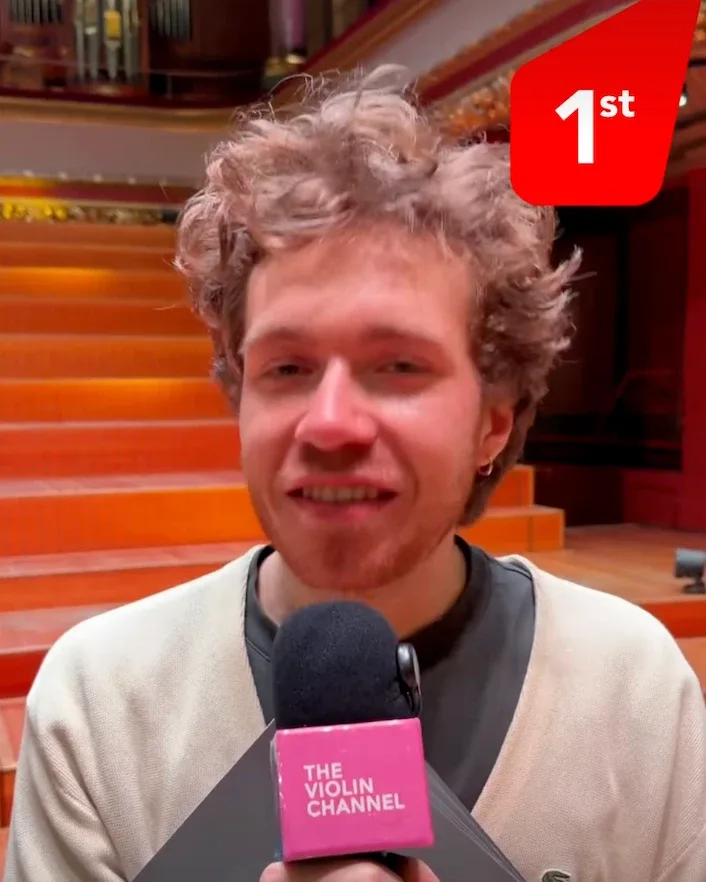
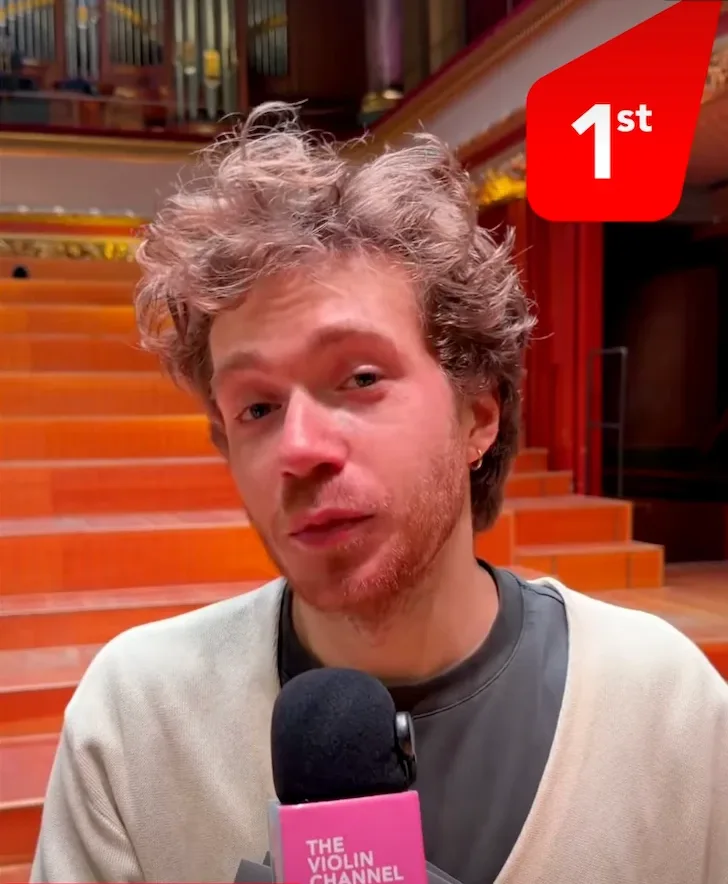
News-Karussell: neues Foto für die Instagram-Karte von Mats Thiersch
Claude-Session: https://claude.ai/code/session_01BXHjn5stXKTkgrGWD7nkhn

diff --git a/news-carousel.js b/news-carousel.js
@@ -27,7 +27,7 @@
 
   // Ersatzbilder (Mats: Original ohne Play-Button; Sanderling: ausgewähltes Porträt), Schlüssel = Bilddatei der News
   var IMAGE_OVERRIDES = {
-    "news-data/img/20261117-150347-0ade13.jpg": { image: "images/news-overrides/20261117-150347-0ade13.jpg", webp: "images/news-overrides/20261117-150347-0ade13.webp" },
+    "news-data/img/20261117-150347-0ade13.jpg": { image: "images/news-overrides/20261117-150347-0ade13.jpg?v=2", webp: "images/news-overrides/20261117-150347-0ade13.webp?v=2" },
     "news-data/img/20261117-144537-dd286f.jpg": { image: "images/sanderling-1092.jpg", webp: "images/sanderling-1092.webp" },
     "news-data/img/20261117-230946-b4c2b5.jpg": { image: "images/sanderling-1092.jpg", webp: "images/sanderling-1092.webp" }
   };

diff --git a/gerald-karni.html b/gerald-karni.html
@@ -747,7 +747,7 @@
     </footer>
 
     <!-- NEWS-KARUSSELL: eigene Liste (news-data/news.json), sonst WordPress -->
-    <script src="news-carousel.js?v=14" defer></script>
+    <script src="news-carousel.js?v=15" defer></script>
     <script src="news-button.js?v=1" defer></script>
 
     <!-- HEADER: BEIM RUNTERSCROLLEN AUSBLENDEN, BEIM HOCHSCROLLEN EINBLENDEN -->

diff --git a/jose-luis-gutierrez.html b/jose-luis-gutierrez.html
@@ -780,7 +780,7 @@
     </footer>
 
     <!-- NEWS-KARUSSELL: eigene Liste (news-data/news.json), sonst WordPress -->
-    <script src="news-carousel.js?v=14" defer></script>
+    <script src="news-carousel.js?v=15" defer></script>
     <script src="news-button.js?v=1" defer></script>
 
     <!-- HEADER: BEIM RUNTERSCROLLEN AUSBLENDEN, BEIM HOCHSCROLLEN EINBLENDEN -->

diff --git a/mats-thiersch.html b/mats-thiersch.html
@@ -740,7 +740,7 @@
     </footer>
 
     <!-- NEWS-KARUSSELL: eigene Liste (news-data/news.json), sonst WordPress -->
-    <script src="news-carousel.js?v=14" defer></script>
+    <script src="news-carousel.js?v=15" defer></script>
     <script src="news-button.js?v=1" defer></script>
 
     <!-- HEADER: BEIM RUNTERSCROLLEN AUSBLENDEN, BEIM HOCHSCROLLEN EINBLENDEN -->

diff --git a/johannes-pierre-bettac.html b/johannes-pierre-bettac.html
@@ -802,7 +802,7 @@
     </footer>
 
     <!-- NEWS-KARUSSELL: eigene Liste (news-data/news.json), sonst WordPress -->
-    <script src="news-carousel.js?v=14" defer></script>
+    <script src="news-carousel.js?v=15" defer></script>
     <script src="news-button.js?v=1" defer></script>
 
     <!-- KALENDER: lädt die Termine aus dem Google-Sheet-Feed -->

diff --git a/michael-sanderling.html b/michael-sanderling.html
@@ -973,7 +973,7 @@
     </footer>
 
     <!-- NEWS-KARUSSELL: eigene Liste (news-data/news.json), sonst WordPress -->
-    <script src="news-carousel.js?v=14" defer></script>
+    <script src="news-carousel.js?v=15" defer></script>
     <script src="news-button.js?v=1" defer></script>
 
     <!-- KALENDER: lädt die Termine aus dem Google-Sheet-Feed -->

diff --git a/francesco-cagnasso.html b/francesco-cagnasso.html
@@ -767,7 +767,7 @@
     </footer>
 
     <!-- NEWS-KARUSSELL: eigene Liste (news-data/news.json) -->
-    <script src="news-carousel.js?v=14" defer></script>
+    <script src="news-carousel.js?v=15" defer></script>
     <script src="news-button.js?v=1" defer></script>
 
     <!-- HEADER: BEIM RUNTERSCROLLEN AUSBLENDEN, BEIM HOCHSCROLLEN EINBLENDEN -->

diff --git a/index.html b/index.html
@@ -1879,7 +1879,7 @@
     </script>
 
     <!-- NEWS-KARUSSELL: eigene Liste (news-data/news.json), sonst WordPress -->
-    <script src="news-carousel.js?v=14" defer></script>
+    <script src="news-carousel.js?v=15" defer></script>
     <script src="latest-news.js?v=4" defer></script>
 </body>
 </html>
